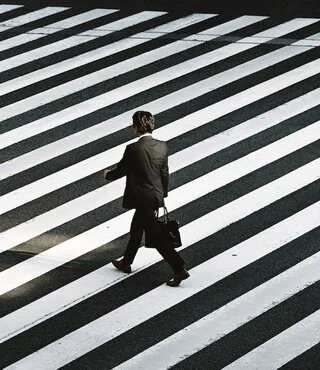
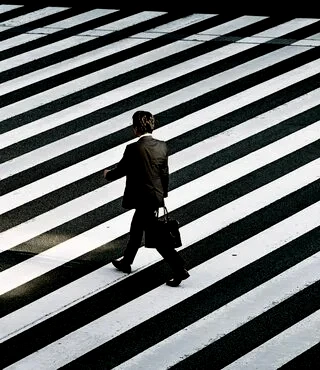
added some styles and changes

diff --git a/styles/large.css b/styles/large.css
@@ -128,7 +128,7 @@ p, span, li, figcaption,label,input,.d-header h2,.cards a,h4,.container a{
 }
 
 #index-main{
-    background-color: #DCDCDC;
+    background-color: #000000;
 }
 
 .container {  
@@ -139,8 +139,10 @@ p, span, li, figcaption,label,input,.d-header h2,.cards a,h4,.container a{
     grid-auto-flow: row;
     margin: .5rem;
     align-items: center;
-    background-color: #DCDCDC;
+    background-color: #000000;
     padding-bottom: 1rem;
+    margin-top: 0;
+    padding-top: 1rem;
 
 
 }
@@ -208,17 +210,16 @@ p, span, li, figcaption,label,input,.d-header h2,.cards a,h4,.container a{
     text-align: center;
     background-color: #fff;
     height: 100%;
-    border: 1px solid #DCDCDC;
     border-radius: 1rem;
 
 
 }
 .Event p{
-    text-align: justify;
+    text-align: left;
 }
 
 .Event img{
-    height: 3rem;
+    height: 4rem;
 }
   
 .Spotlight-1 { 
@@ -226,7 +227,6 @@ p, span, li, figcaption,label,input,.d-header h2,.cards a,h4,.container a{
     background-color: #fff;
     text-align: center; 
     padding: 1.5rem;
-    border: 1px solid #DCDCDC;
     height: 100%;
     border-radius: 1rem;
 }
@@ -250,7 +250,6 @@ p, span, li, figcaption,label,input,.d-header h2,.cards a,h4,.container a{
     background-color: #fff;
     text-align: center;
     padding: 1.5rem;
-    border: 1px solid #DCDCDC;
     height: 100%;
     border-radius: 1rem;
 }
@@ -271,16 +270,15 @@ p, span, li, figcaption,label,input,.d-header h2,.cards a,h4,.container a{
     background-color: #fff;
     text-align: center;
     padding: 1.5rem;
-    border: 1px solid #DCDCDC;
     height: 100%;
     border-radius: 1rem;
 }
 
 .Spotlight-3 img{
-    height: 3rem;
+    height: 4rem;
 }
 .Spotlight-3 p{
-    text-align: justify;
+    text-align: left;
 }
   
 .News-release { 
@@ -311,7 +309,6 @@ p, span, li, figcaption,label,input,.d-header h2,.cards a,h4,.container a{
     padding: 1.5rem;
     text-align: center;
     height: 100%;
-    border: 1px solid #DCDCDC;
     border-radius: 1rem;
 
 }
@@ -339,12 +336,14 @@ p, span, li, figcaption,label,input,.d-header h2,.cards a,h4,.container a{
     background-color: #fff;
     padding: 1.5rem;
     text-align: center;
-    border: 1px solid #DCDCDC;
     height: 100%;
     border-radius: 1rem;
 }
 .Join img{
-    height: 3rem
+    height: 4rem
+}
+.Join p{
+    text-align: left;
 }
   
 .join-button{
@@ -407,6 +406,10 @@ p, span, li, figcaption,label,input,.d-header h2,.cards a,h4,.container a{
     border-radius: 50px 5px;
     line-height: 1.5rem;
 }
+.discover-container h2{
+    font-weight: 500;
+    letter-spacing: .3rem;
+}
 
 .discover-container #img01{
     grid-column: 1/6;
@@ -461,13 +464,13 @@ p, span, li, figcaption,label,input,.d-header h2,.cards a,h4,.container a{
 }
 
 .visits{
-    background-color: #000000;
+    background-color: #FDC500;
     box-shadow: 1px 3px 8px 2px rgba(0, 0, 0, 0.7);
     padding: .2rem;
     position: static;
     bottom: 5rem;
     right: 10px;
-    color: #FDC500;
+    color: #000000;
     text-align: center;
 }
 
@@ -672,7 +675,9 @@ fieldset{
     margin: 0;
     padding: .1rem;
     box-shadow: 1px 5px 10px -2px rgba(0, 0, 0, 0.4);
-    background-color: #fff;
+    background-color: #000000;
+    color: #fff;
+    letter-spacing: .5rem;
 }
 
 
@@ -753,6 +758,7 @@ fieldset{
 
 .contact-container{
     background-color: #000000;
+    padding-bottom: 2rem;
 }
 
 .contact-header{

diff --git a/index.html b/index.html
@@ -46,7 +46,7 @@
                     <source media="(max-width: 650px)" srcset="images/rsz_walking-man.webp">
                     <source media="(max-width: 820px)" srcset="images/walking-man02.webp">
 
-                    <img id="banner" src="images/walking-man02.webp" alt="walking-man">
+                    <img id="banner" src="images/walking-man03.webp" alt="walking-man">
                 </picture>
                 <span class="lg-view">Large</span>
                 <span class="md-view">Medium</span>
@@ -54,9 +54,9 @@
                 <h2>Welcome<br><br>Potentiate your brand in the business sector of Monterrey, Nuevo León</h2>
             </div>
             <div class="Event">
-                <img src="images/golf_03.png" alt="golf-icon">
+                <img src="https://cdn-icons-png.flaticon.com/128/5492/5492245.png" alt="golf-icon">
                 <h3>Golf tournament</h3>
-                <p>Social meeting with the aim of merging friendship and business. The tournament takes place every year and has spaces to promote your business among the participants.</p>
+                <p>The tournament takes place every year in summer at "Club de Golf la Herradura" and there are spots to promote and show your business among the participants. The participation in this event is free for Silver and Gold memberships.</p>
                 
             </div>
             <div class="Spotlight-1">
@@ -72,9 +72,9 @@
                 
             </div>
             <div class="Spotlight-3">
-                <img src="images/training_02.png" alt="exposition">
+                <img src="https://cdn-icons-png.flaticon.com/128/3076/3076691.png" alt="exposition">
                 <h3>Training</h3>
-                <p>In the chamber we seek to increase the profitability of each member's business that are part of this institution.</p>
+                <p>In the chamber we seek to increase the profitability of your business. We offer different courses taught by professionals in business and marketing to help you succeed. You will also receive coaching from some of the most successful businessmen in the city. </p>
                 <div class="join-button">
                     <button id="join-us">REGISTER HERE</button>
                 </div>
@@ -96,9 +96,9 @@
                 </ul>
             </div>
             <div class="Join">
-                <img src="images/law_02.png" alt="legal services">
+                <img src="https://cdn-icons-png.flaticon.com/128/89/89949.png" alt="legal services">
                 <h3>Legal services</h3>
-                <p>We defend the legitimate interests of our affiliates.<br><br>-Preventive service provided by a team of professionals always ready to serve you.-</p>
+                <p>We defend the legitimate interests of our affiliates.<br><br>This is a preventive service provided by a team of professionals who will advise you with the best legal proposals to protect your business against legal problems in the future.</p>
             </div>
           </div>
           <div class="visits">

diff --git a/directory.html b/directory.html
@@ -38,7 +38,7 @@
     </nav>
     
     <div class="d-header">
-        <h2>Directory of local companies affiliated to our chamber</h2>
+        <h2>Membership Directory</h2>
     </div>
     <div class="grid-list-btn">
         <button type="button" id="grid-view"><img src="https://cdn-icons-png.flaticon.com/128/1829/1829415.png" alt="grid-btn"></button>

diff --git a/styles/medium-small.css b/styles/medium-small.css
@@ -97,6 +97,10 @@
         margin-bottom: 1rem;
     }
 
+    .d-header{
+        font-size: .8rem;
+    }
+
     form input, form textarea{
         width: 100%;
     }

diff --git a/styles/medium.css b/styles/medium.css
@@ -51,6 +51,7 @@
         gap: .2rem;
         grid-auto-flow: row;
         margin: .5rem;
+        margin-top: 0;
 
       }
 
